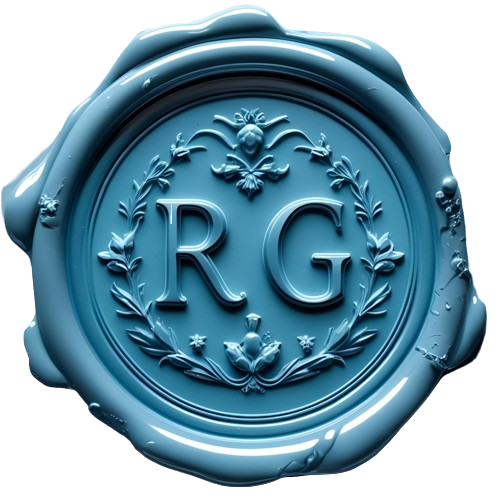
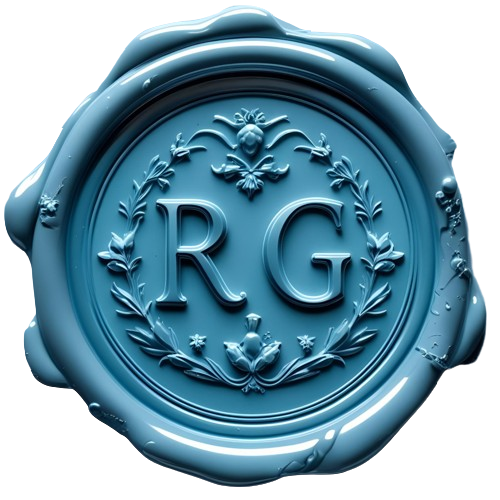
fix grafiche finali forse

diff --git a/index.html b/index.html
@@ -7,7 +7,7 @@
   <link rel="preconnect" href="https://fonts.gstatic.com" crossorigin>
   <link href="https://fonts.googleapis.com/css2?family=Cormorant+Garamond:wght@300;400;500;600;700&family=Cormorant+SC:wght@300;400;500;600;700&display=swap" rel="stylesheet">
     
-  <title>Partecipazione di Nozze</title>
+  <title>Rachel e Gianmarco</title>
   <style>
     body {
       margin: 0;
@@ -42,43 +42,65 @@
       transform: translate(-50%, -50%);
       width: 180px;
       height: auto;
+      z-index: 2;
     }
 
-	.curved-text-wrapper {
-		position: absolute;
-		top: 50%;
-		left: 50%;
-		transform: translate(-50%, -50%);
-		width: 200px;
-		height: 100px;
-		margin-top: -90px;
-	}
+    .shadow {
+      position: absolute;
+      top: 50%;
+      left: 50%;
+      width: 150px;
+      height: 150px;
+      background: rgba(0, 0, 0, 0.4);
+      border-radius: 50%;
+      transform: translate(-50%, -50%) scale(1.2);
+      filter: blur(12px);
+      z-index: 1;
+    }
 
-	.open-curved-text {
-		font-family: 'Cormorant Garamond', serif;
-		font-size: 18px;
-		font-weight: bold;
-		fill: #4994b3;
-		text-align: center;
-	}
+    .curved-text-wrapper {
+      position: absolute;
+      top: 50%;
+      left: 50%;
+      transform: translate(-50%, -50%);
+      width: 200px;
+      height: 100px;
+      margin-top: -90px;
+      z-index: 3;
+    }
+
+    .open-curved-text {
+      font-family: 'Cormorant Garamond', serif;
+      font-size: 20px;
+      font-weight: bold;
+      fill: #4994b3;
+      text-align: center;
+    }
   </style>
 </head>
 <body>
   <div class="container">
     <div class="center-line"></div>
+    
+    <!-- Ombra sotto l'immagine -->
+    <div class="shadow"></div>
+
+    <!-- Immagine -->
     <a href="partecipazione.html">
-		<img src="ceraLacca.png" alt="Sigillo RG" class="logo" />
-	</a>
-	<div class="curved-text-wrapper">
-		<svg viewBox="0 0 200 100">
-			<path id="curvePath" d="M 10 70 Q 100 0 190 70" fill="transparent" />
-			<text class="open-curved-text">
-				<textPath href="#curvePath" startOffset="50%" text-anchor="middle">
-					Clicca per aprire
-				</textPath>
-			</text>
-		</svg>
-	</div>
+      <img src="ceraLacca.png" alt="Sigillo RG" class="logo" />
+    </a>
+
+    <!-- Testo curvo -->
+    <div class="curved-text-wrapper">
+      <svg viewBox="0 0 200 100">
+        <path id="curvePath" d="M 10 70 Q 100 0 190 70" fill="transparent" />
+        <text class="open-curved-text">
+          <textPath href="#curvePath" startOffset="50%" text-anchor="middle">
+            Clicca per aprire
+          </textPath>
+        </text>
+      </svg>
+    </div>
   </div>
 </body>
 </html>

diff --git a/partecipazione.css b/partecipazione.css
@@ -87,12 +87,16 @@ a:active {
 }
 
 .announcement {
-	margin-bottom: 30px;
+	margin-top: 25px;
 	color: #588dcb;
 }
 
-.date-time, .time, .location {
-	font-size: 20px;
+.date-time {
+	font-size: 24px;
+}
+
+.time, .location {
+	font-size: 22px;
 }
 
 .date-time {
@@ -104,7 +108,7 @@ a:active {
 
 .time {
 	font-family: 'Great Vibes', cursive;
-	margin-bottom: 20px;
+	margin-bottom: 10px;
 	font-weight: bold;
 	color: #588dcb;
 }
@@ -118,7 +122,7 @@ a:active {
 
 .reception-details {
 	font-family: 'Cormorant Garamond', serif;
-	margin-bottom: 30px;
+	margin-bottom: 10px;
 	line-height: 1.6;
 	color: #588dcb;
 }
@@ -126,13 +130,13 @@ a:active {
 .rsvp {
 	font-family: 'Cormorant Garamond', serif;
 	color: #588dcb;
-	margin-top: 40px;
+	margin-top: 25px;
 	padding-top: 20px;
 }
 
 .floating-button-inside {
 	position: absolute;
-	bottom: 10px;
+	bottom: 20px;
 	left: 50%;
 	transform: translateX(-50%);
 	width: 44px;
@@ -167,7 +171,11 @@ a:active {
 		margin: 3px;
 	}
 	
-	.date-time, .time, .location {
+	.date-time {
+		font-size: 21px;
+	}
+
+	.time, .location {
 		font-size: 17px;
 	}
 
@@ -202,7 +210,10 @@ a:active {
 		margin: 5px;
 	}
 	
-	.date-time, .time, .location {
+	.date-time {
+		font-size: 19px;
+	}
+	.time, .location {
 		font-size: 15px;
 	}
 

diff --git a/regalo.html b/regalo.html
@@ -3,7 +3,7 @@
 <head>
     <meta charset="UTF-8">
     <meta name="viewport" content="width=device-width, initial-scale=1.0">
-    <title>Partecipazione di Matrimonio</title>
+    <title>Rachel e Gianmarco</title>
     <link rel="preconnect" href="https://fonts.googleapis.com">
     <link rel="preconnect" href="https://fonts.gstatic.com" crossorigin>
     <link href="https://fonts.googleapis.com/css2?family=Cormorant+Garamond:wght@300;400;500;600;700&family=Cormorant+SC:wght@300;400;500;600;700&display=swap" rel="stylesheet">
@@ -15,8 +15,8 @@
 
 		<div class="flower-placeholder"><img src="fioriCentrali.PNG" alt="logo"/></div>
 
-        <p style="line-height: 1.6;" class="announcement">IL DONO PIÙ BELLO SARÀ AVERVI ACCANTO </br>
-		IN QUESTO GIORNO SPECIALE. MA SE DESIDERATE </br> 
+        <p style="line-height: 1.6; margin-bottom: 100px" class="announcement">IL DONO PIÙ BELLO SARÀ AVERVI ACCANTO </br>
+		IN QUESTO GIORNO SPECIALE, MA SE DESIDERATE </br> 
 		CONTRIBUIRE ALLA NOSTRA NUOVA AVVENTURA INSIEME,</br>
 		UN PENSIERO PER IL NOSTRO SALVADANAIO </br>
 		SARÀ DAVVERO GRADITO. </br></br>
@@ -27,6 +27,5 @@
 		  <i class="fa fa-arrow-left"></i>
 		</a>
     </div>
-
 </body>
 </html>

diff --git a/partecipazione.html b/partecipazione.html
@@ -3,7 +3,7 @@
 <head>
     <meta charset="UTF-8">
     <meta name="viewport" content="width=device-width, initial-scale=1.0">
-    <title>Partecipazione di Matrimonio</title>
+    <title>Rachel e Gianmarco</title>
     <link rel="preconnect" href="https://fonts.googleapis.com">
     <link rel="preconnect" href="https://fonts.gstatic.com" crossorigin>
     <link href="https://fonts.googleapis.com/css2?family=Cormorant+Garamond:wght@300;400;500;600;700&family=Cormorant+SC:wght@300;400;500;600;700&display=swap" rel="stylesheet">
@@ -28,12 +28,12 @@
 
         <p class="reception-details">
             DOPO LA CERIMONIA INVITANO AMICI E PARENTI<br>
-            A FESTEGGIARE PRESSO<br>
+            A FESTEGGIARE INSIEME PRESSO<br>
             <a href="https://maps.app.goo.gl/dZmciFk3vhVcQN1u6" 
-				target="_blank">RISTORANTE TORRE NORMANNA, MAIORI (SA)</a>
+				target="_blank">RISTORANTE TORRE NORMANNA, MAIORI</a>
         </p>
 
-        <p class="rsvp">Gradita conferma entro<br>il 15 settembre</p>
+        <p class="rsvp">Gradita conferma entro<br>il 15 Settembre</p>
 		
 		<!--div class="bottom-left-decor"></div-->
 			
